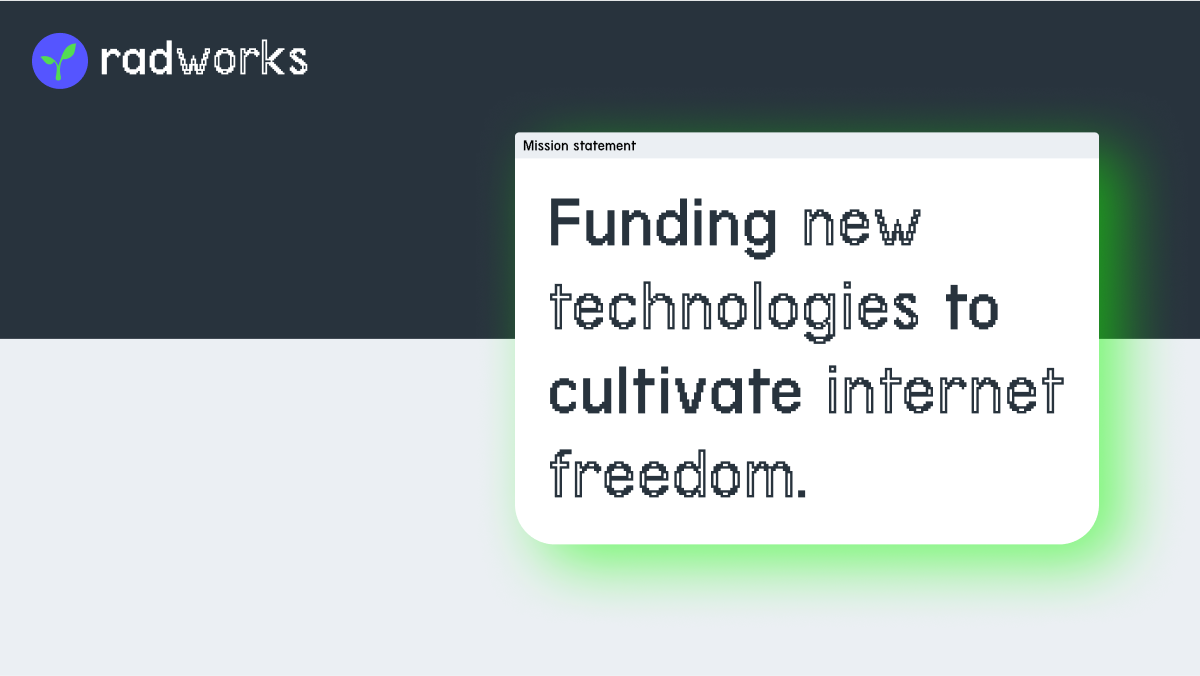
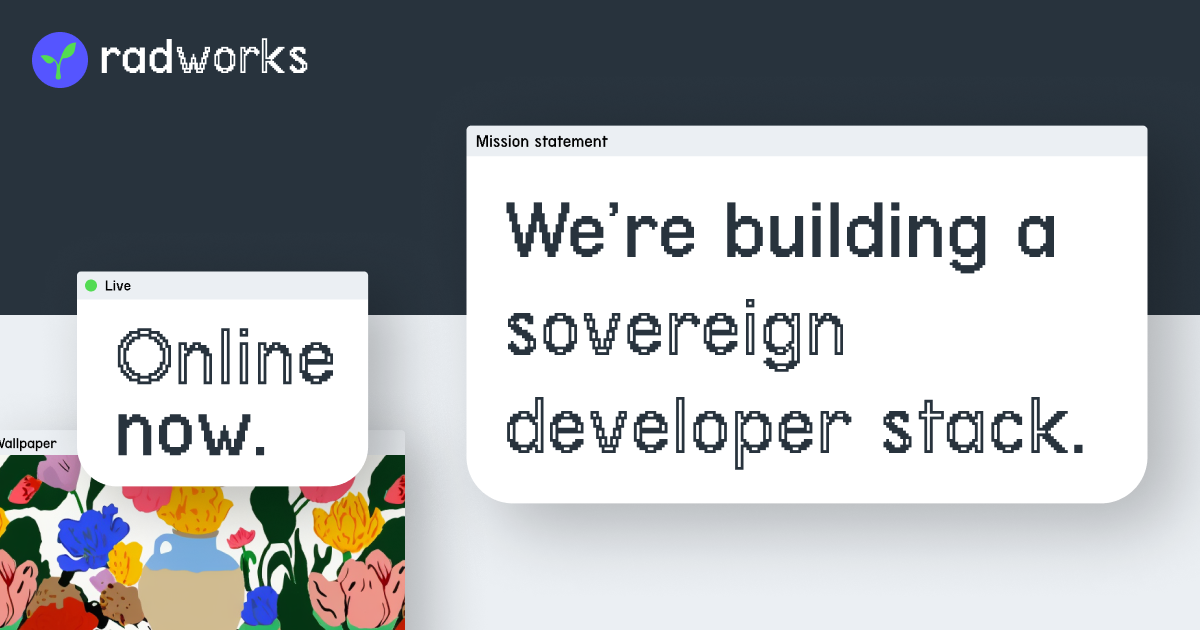
update share images and text

diff --git a/src/routes/+layout.svelte b/src/routes/+layout.svelte
@@ -13,22 +13,17 @@
   <title>Radworks</title>
   <meta
     name="description"
-    content="Radworks funds new technologies to cultivate internet freedom."
+    content="Radworks enables developers to securely host, collaborate on, and reward open-source code."
   />
-  <meta
-    property="og:image"
-    content="https://cerulean-cupcake-d1ed95.netlify.app/img/og-share.png"
-  />
+  <meta property="og:image" content="https://radworks.org/img/og-share.png" />
   <meta property="twitter:title" content="Radworks" />
   <meta
     property="twitter:description"
-    content="Radworks funds new technologies to cultivate internet freedom."
+    content="Radworks enables developers to securely host, collaborate on, and reward open-source code."
   />
-  <meta
-    property="twitter:image"
-    content="https://cerulean-cupcake-d1ed95.netlify.app/img/twitter-share.png"
-  />
+  <meta property="twitter:image" content="https://radworks.org/img/twitter-share.png" />
   <meta property="twitter:card" content="summary_large_image" />
+  <script defer data-domain="radworks.org" src="https://plausible.io/js/script.js"></script>
 </svelte:head>
 
 <div class="wrapper" data-theme={$themeStore.currentTheme} data-primary-color={$primaryColor}>
